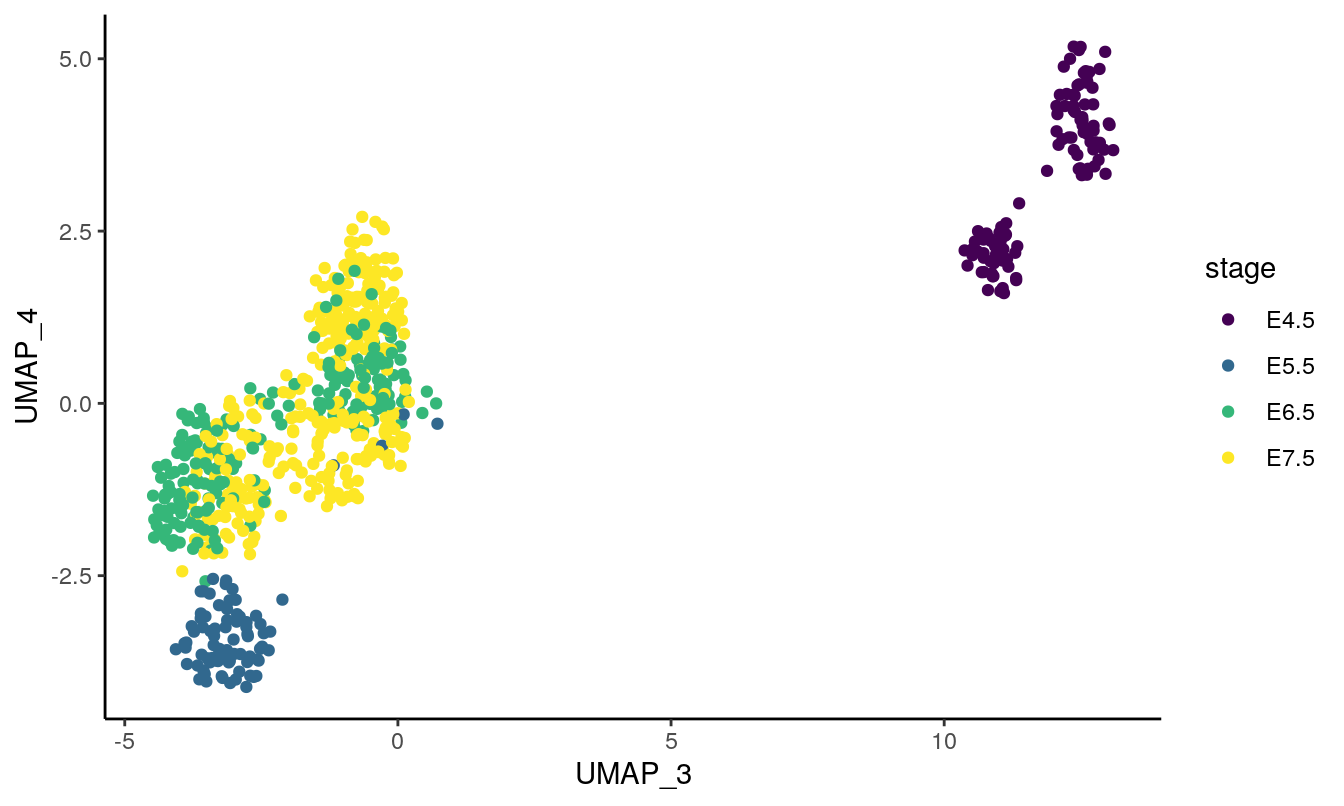
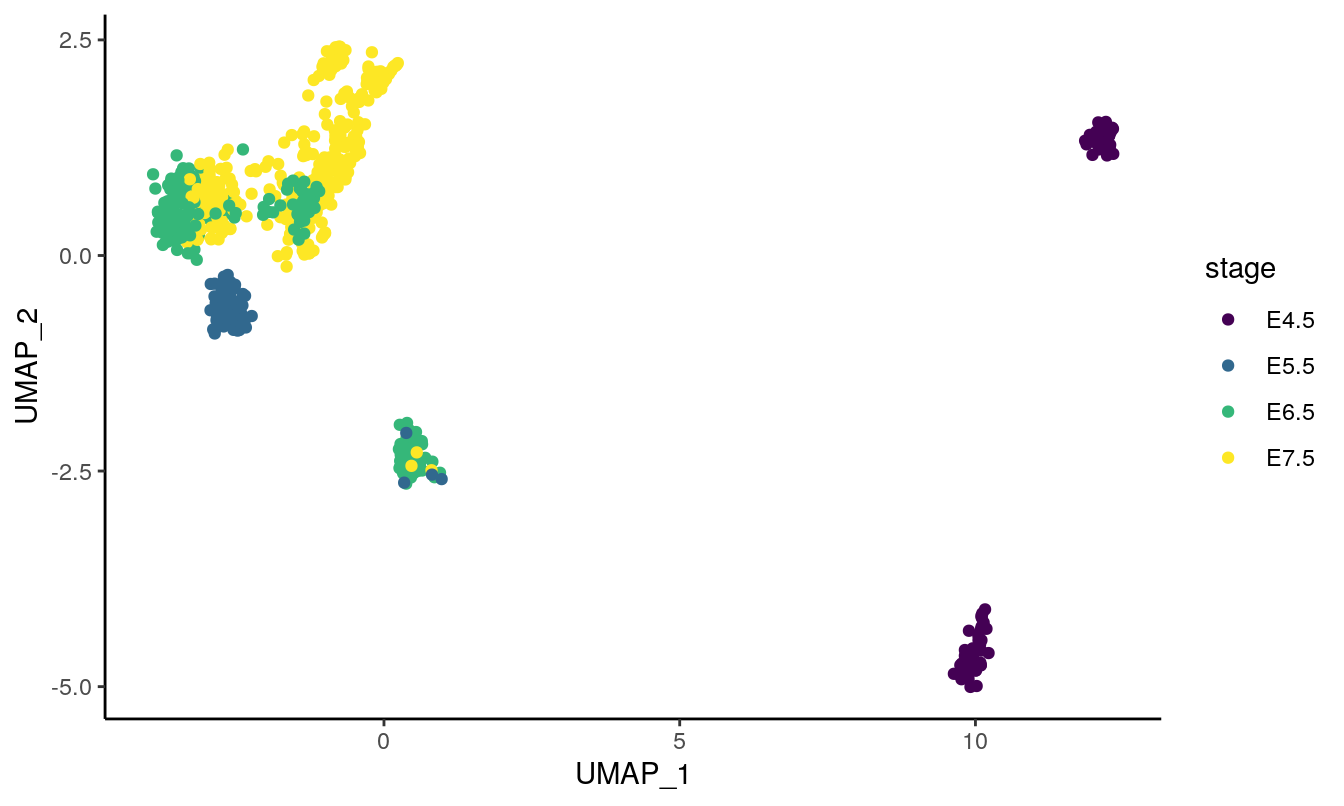
Deploying to gh-pages from  @ 269f9b45b6ae01ef91a478628a334f377bcd2bc9 🚀

diff --git a/articles/index.html b/articles/index.html
@@ -122,16 +122,31 @@
 <span class="fu"><a href="https://rdrr.io/r/base/library.html">library</a></span>(<span class="no">reshape2</span>)
 <span class="fu"><a href="https://rdrr.io/r/base/library.html">library</a></span>(<span class="no">data.table</span>)
 <span class="fu"><a href="https://rdrr.io/r/base/library.html">library</a></span>(<span class="no">MOFA2</span>)</pre></body></html></div>
+<div class="sourceCode" id="cb2"><html><body><pre class="r"><span class="co"># used run parameters from yaml</span>
+<span class="no">params</span>[-<span class="fu"><a href="https://rdrr.io/r/base/seq.html">seq_len</a></span>(<span class="fl">3</span>)]
+<span class="co">#&gt; $drop_lineages</span>
+<span class="co">#&gt; [1] "Visceral_endoderm" "ExE_ectoderm"     </span>
+<span class="co">#&gt; </span>
+<span class="co">#&gt; $keep_assays</span>
+<span class="co">#&gt; [1] "rna"          "met_genebody" "met_promoter" "met_cgi"      "met_p300"    </span>
+<span class="co">#&gt; [6] "met_CTCF"     "met_DHS"     </span>
+<span class="co">#&gt; </span>
+<span class="co">#&gt; $data_path</span>
+<span class="co">#&gt; [1] "https://cloudstor.aarnet.edu.au/plus/s/Xzf5vCgAEUVgbfQ/download?path=%2Foutput&amp;files=scnmtseq_gastrulation_mae_826-cells_orderedFeatures.rds"</span>
+<span class="co">#&gt; </span>
+<span class="co">#&gt; $umap_params</span>
+<span class="co">#&gt;     run.seed  n_neighbors n_components     min_dist </span>
+<span class="co">#&gt;         42.0         15.0          4.0          0.1</span></pre></body></html></div>
 <div id="data" class="section level1">
 <h1 class="hasAnchor">
 <a href="#data" class="anchor"></a>Data</h1>
 <p>Details of the hackathon data and preprocessing steps: <a href="https://github.com/BIRSBiointegration/Hackathon/tree/master/scNMT-seq" class="uri">https://github.com/BIRSBiointegration/Hackathon/tree/master/scNMT-seq</a></p>
 <p>Load the <code>MultiAssayExperiment</code> object:</p>
-<div class="sourceCode" id="cb2"><html><body><pre class="r"><span class="fu"><a href="https://rdrr.io/r/base/cat.html">cat</a></span>(<span class="fu"><a href="https://rdrr.io/r/base/sprintf.html">sprintf</a></span>(<span class="st">'loading data from %s ...\n'</span>, <span class="no">params</span>$<span class="no">data_path</span>))
+<div class="sourceCode" id="cb3"><html><body><pre class="r"><span class="fu"><a href="https://rdrr.io/r/base/cat.html">cat</a></span>(<span class="fu"><a href="https://rdrr.io/r/base/sprintf.html">sprintf</a></span>(<span class="st">'loading data from %s ...\n'</span>, <span class="no">params</span>$<span class="no">data_path</span>))
 <span class="co">#&gt; loading data from https://cloudstor.aarnet.edu.au/plus/s/Xzf5vCgAEUVgbfQ/download?path=%2Foutput&amp;files=scnmtseq_gastrulation_mae_826-cells_orderedFeatures.rds ...</span>
 <span class="no">gastru.mae</span> <span class="kw">&lt;-</span> <span class="fu"><a href="https://rdrr.io/r/base/readRDS.html">readRDS</a></span>(<span class="fu"><a href="https://rdrr.io/r/base/connections.html">url</a></span>(<span class="no">params</span>$<span class="no">data_path</span>))</pre></body></html></div>
 <p>An overview of the data object:</p>
-<div class="sourceCode" id="cb3"><html><body><pre class="r"><span class="no">gastru.mae</span>
+<div class="sourceCode" id="cb4"><html><body><pre class="r"><span class="no">gastru.mae</span>
 <span class="co">#&gt; A MultiAssayExperiment object of 13 listed</span>
 <span class="co">#&gt;  experiments with user-defined names and respective classes.</span>
 <span class="co">#&gt;  Containing an ExperimentList class object of length 13:</span>
@@ -159,14 +174,14 @@
 <div id="filter-extra-embryonic-cells" class="section level2">
 <h2 class="hasAnchor">
 <a href="#filter-extra-embryonic-cells" class="anchor"></a>filter extra-embryonic cells</h2>
-<div class="sourceCode" id="cb4"><html><body><pre class="r"><span class="fu"><a href="https://rdrr.io/r/base/cat.html">cat</a></span>(<span class="fu"><a href="https://rdrr.io/r/base/sprintf.html">sprintf</a></span>(<span class="st">'Dropping cells from lineage(s) %s:\n'</span>, <span class="fu"><a href="https://rdrr.io/r/base/paste.html">paste</a></span>(<span class="fu"><a href="https://rdrr.io/r/base/sQuote.html">sQuote</a></span>(<span class="no">params</span>$<span class="no">drop_lineages</span>), <span class="kw">collapse</span> <span class="kw">=</span> <span class="st">', '</span>)))
+<div class="sourceCode" id="cb5"><html><body><pre class="r"><span class="fu"><a href="https://rdrr.io/r/base/cat.html">cat</a></span>(<span class="fu"><a href="https://rdrr.io/r/base/sprintf.html">sprintf</a></span>(<span class="st">'Dropping cells from lineage(s) %s:\n'</span>, <span class="fu"><a href="https://rdrr.io/r/base/paste.html">paste</a></span>(<span class="fu"><a href="https://rdrr.io/r/base/sQuote.html">sQuote</a></span>(<span class="no">params</span>$<span class="no">drop_lineages</span>), <span class="kw">collapse</span> <span class="kw">=</span> <span class="st">', '</span>)))
 <span class="co">#&gt; Dropping cells from lineage(s) 'Visceral_endoderm', 'ExE_ectoderm':</span>
 <span class="fu"><a href="https://rdrr.io/r/base/cat.html">cat</a></span>(<span class="fu"><a href="https://rdrr.io/r/base/sprintf.html">sprintf</a></span>(<span class="st">'Retaining assays: %s: \n'</span>, <span class="fu"><a href="https://rdrr.io/r/base/paste.html">paste</a></span>(<span class="fu"><a href="https://rdrr.io/r/base/sQuote.html">sQuote</a></span>(<span class="no">params</span>$<span class="no">keep_assays</span>), <span class="kw">collapse</span> <span class="kw">=</span> <span class="st">', '</span>)))
 <span class="co">#&gt; Retaining assays: 'rna', 'met_genebody', 'met_promoter', 'met_cgi', 'met_p300', 'met_CTCF', 'met_DHS':</span>
 <span class="no">gastru.mae</span> <span class="kw">&lt;-</span> <span class="no">gastru.mae</span>[, !(<span class="no">gastru.mae</span>$<span class="no">lineage10x_2</span> <span class="kw">%in%</span> <span class="no">params</span>$<span class="no">drop_lineages</span>), <span class="no">params</span>$<span class="no">keep_assays</span>]
 <span class="co">#&gt; harmonizing input:</span>
 <span class="co">#&gt;   removing 4494 sampleMap rows not in names(experiments)</span></pre></body></html></div>
-<div class="sourceCode" id="cb5"><html><body><pre class="r"><span class="no">gastru.mae</span>
+<div class="sourceCode" id="cb6"><html><body><pre class="r"><span class="no">gastru.mae</span>
 <span class="co">#&gt; A MultiAssayExperiment object of 7 listed</span>
 <span class="co">#&gt;  experiments with user-defined names and respective classes.</span>
 <span class="co">#&gt;  Containing an ExperimentList class object of length 7:</span>
@@ -186,7 +201,7 @@
 <span class="co">#&gt;  assays() - convert ExperimentList to a SimpleList of matrices</span>
 <span class="co">#&gt;  exportClass() - save all data to files</span></pre></body></html></div>
 <p>Breakdown of the cells in each stage:</p>
-<div class="sourceCode" id="cb6"><html><body><pre class="r"><span class="fu"><a href="https://rdrr.io/r/base/table.html">table</a></span>(<span class="no">gastru.mae</span>$<span class="no">stage</span>) <span class="kw">%&gt;%</span> <span class="fu"><a href="https://rdrr.io/r/base/as.data.frame.html">as.data.frame</a></span>() <span class="kw">%&gt;%</span> <span class="fu"><a href="https://rdrr.io/pkg/magrittr/man/aliases.html">set_colnames</a></span>(<span class="fu"><a href="https://rdrr.io/r/base/c.html">c</a></span>(<span class="st">'stage'</span>, <span class="st">'# of cells'</span>)) <span class="kw">%&gt;%</span> <span class="fu"><a href="https://rdrr.io/pkg/knitr/man/kable.html">kable</a></span>()</pre></body></html></div>
+<div class="sourceCode" id="cb7"><html><body><pre class="r"><span class="fu"><a href="https://rdrr.io/r/base/table.html">table</a></span>(<span class="no">gastru.mae</span>$<span class="no">stage</span>) <span class="kw">%&gt;%</span> <span class="fu"><a href="https://rdrr.io/r/base/as.data.frame.html">as.data.frame</a></span>() <span class="kw">%&gt;%</span> <span class="fu"><a href="https://rdrr.io/pkg/magrittr/man/aliases.html">set_colnames</a></span>(<span class="fu"><a href="https://rdrr.io/r/base/c.html">c</a></span>(<span class="st">'stage'</span>, <span class="st">'# of cells'</span>)) <span class="kw">%&gt;%</span> <span class="fu"><a href="https://rdrr.io/pkg/knitr/man/kable.html">kable</a></span>()</pre></body></html></div>
 <table class="table">
 <thead><tr class="header">
 <th align="left">stage</th>
@@ -211,14 +226,14 @@
 </tr>
 </tbody>
 </table>
-<div class="sourceCode" id="cb7"><html><body><pre class="r"><span class="co">## create a data.frame from cell metadata</span>
+<div class="sourceCode" id="cb8"><html><body><pre class="r"><span class="co">## create a data.frame from cell metadata</span>
 <span class="no">coldata</span> <span class="kw">&lt;-</span> <span class="fu"><a href="https://rdrr.io/r/base/data.frame.html">data.frame</a></span>(<span class="fu">colData</span>(<span class="no">gastru.mae</span>))</pre></body></html></div>
 </div>
 <div id="feature-detection" class="section level2">
 <h2 class="hasAnchor">
 <a href="#feature-detection" class="anchor"></a>Feature detection</h2>
 <p>Create density plots of the feature detection rate across all cells for all modalities:</p>
-<div class="sourceCode" id="cb8"><html><body><pre class="r"><span class="co"># get the methylation assays</span>
+<div class="sourceCode" id="cb9"><html><body><pre class="r"><span class="co"># get the methylation assays</span>
 <span class="no">met_assays</span> <span class="kw">&lt;-</span> <span class="fu"><a href="https://rdrr.io/r/base/grep.html">grep</a></span>(<span class="fu"><a href="https://rdrr.io/r/base/names.html">names</a></span>(<span class="no">gastru.mae</span>), <span class="kw">pattern</span> <span class="kw">=</span> <span class="st">'^met'</span>, <span class="kw">value</span> <span class="kw">=</span> <span class="fl">TRUE</span>)
 <span class="co"># add dimensions to labels for ggplot</span>
 <span class="no">dims</span> <span class="kw">&lt;-</span> <span class="fu"><a href="https://rdrr.io/r/base/lapply.html">lapply</a></span>(<span class="fu"><a href="https://rdrr.io/pkg/MultiAssayExperiment/man/MultiAssayExperiment-methods.html">experiments</a></span>(<span class="no">gastru.mae</span>[,,<span class="no">met_assays</span>]), <span class="no">dim</span>)
@@ -241,7 +256,7 @@
 <span class="no">coverages</span> <span class="kw">&lt;-</span> <span class="fu"><a href="https://github.com/ajabadi/BIRSBIO2020.scNMTseq.PLS/reference/utils.html">rbindListWithNames</a></span>(<span class="no">coverages</span>)
 <span class="no">coverages</span>$<span class="no">dataset</span> <span class="kw">&lt;-</span> <span class="fu"><a href="https://rdrr.io/r/base/factor.html">factor</a></span>(<span class="no">coverages</span>$<span class="no">dataset</span>, <span class="kw">levels</span> <span class="kw">=</span> <span class="fu"><a href="https://Rdatatable.gitlab.io/data.table/reference/duplicated.html">unique</a></span>(<span class="no">coverages</span>$<span class="no">dataset</span>), <span class="kw">ordered</span> <span class="kw">=</span> <span class="fl">TRUE</span>)</pre></body></html></div>
 <p>Genomic contexts vary in level of feature detection rates:</p>
-<div class="sourceCode" id="cb9"><html><body><pre class="r"><span class="no">cov_plot</span> <span class="kw">&lt;-</span> <span class="fu"><a href="https://ggplot2.tidyverse.org/reference/ggplot.html">ggplot</a></span>(<span class="no">coverages</span>, <span class="fu"><a href="https://ggplot2.tidyverse.org/reference/aes.html">aes</a></span>(<span class="kw">x</span> <span class="kw">=</span> <span class="no">pct_NAs</span>)) + <span class="fu"><a href="https://ggplot2.tidyverse.org/reference/geom_density.html">geom_density</a></span>(<span class="kw">fill</span> <span class="kw">=</span> <span class="st">'lightblue'</span>, <span class="kw">show.legend</span> <span class="kw">=</span> <span class="fl">FALSE</span>) +
+<div class="sourceCode" id="cb10"><html><body><pre class="r"><span class="no">cov_plot</span> <span class="kw">&lt;-</span> <span class="fu"><a href="https://ggplot2.tidyverse.org/reference/ggplot.html">ggplot</a></span>(<span class="no">coverages</span>, <span class="fu"><a href="https://ggplot2.tidyverse.org/reference/aes.html">aes</a></span>(<span class="kw">x</span> <span class="kw">=</span> <span class="no">pct_NAs</span>)) + <span class="fu"><a href="https://ggplot2.tidyverse.org/reference/geom_density.html">geom_density</a></span>(<span class="kw">fill</span> <span class="kw">=</span> <span class="st">'lightblue'</span>, <span class="kw">show.legend</span> <span class="kw">=</span> <span class="fl">FALSE</span>) +
   <span class="fu"><a href="https://ggplot2.tidyverse.org/reference/geom_abline.html">geom_vline</a></span>(<span class="fu"><a href="https://ggplot2.tidyverse.org/reference/aes.html">aes</a></span>(<span class="kw">xintercept</span><span class="kw">=</span><span class="fu"><a href="https://rdrr.io/r/base/mean.html">mean</a></span>(<span class="no">pct_NAs</span>)),
              <span class="kw">color</span><span class="kw">=</span><span class="st">"blue"</span>, <span class="kw">linetype</span><span class="kw">=</span><span class="st">"dashed"</span>, <span class="kw">size</span><span class="kw">=</span><span class="fl">0.5</span>) +
   <span class="fu"><a href="https://ggplot2.tidyverse.org/reference/labs.html">labs</a></span>(<span class="kw">x</span> <span class="kw">=</span> <span class="st">'% of cells detecting the feature'</span>) + <span class="fu"><a href="https://ggplot2.tidyverse.org/reference/facet_wrap.html">facet_wrap</a></span>(<span class="no">.</span>~<span class="no">dataset</span>, <span class="kw">nrow</span> <span class="kw">=</span> <span class="fl">2</span>) +
@@ -249,7 +264,7 @@
 
 <span class="no">cov_plot</span></pre></body></html></div>
 <div class="figure">
-<img src="index_files/figure-html/unnamed-chunk-12-1.png" alt="density plots for methylation data show that shorter genomic regions tend to have less feture coverage. Dashed blue line indicates the average across all modalities." width="768"><p class="caption">
+<img src="index_files/figure-html/unnamed-chunk-13-1.png" alt="density plots for methylation data show that shorter genomic regions tend to have less feture coverage. Dashed blue line indicates the average across all modalities." width="768"><p class="caption">
 density plots for methylation data show that shorter genomic regions tend to have less feture coverage. Dashed blue line indicates the average across all modalities.
 </p>
 </div>
@@ -262,7 +277,7 @@ density plots for methylation data show that shorter genomic regions tend to hav
 <h2 class="hasAnchor">
 <a href="#umap" class="anchor"></a>UMAP</h2>
 <p>Here we use <code>uwot</code> package for Uniform Manifold Approximation Projection. The original study used the <code>umap</code> package with <code>method = 'umap-learn'</code> parameter which requires the ‘umap-learn’ python library and can add complexity to set up on a VM.</p>
-<div class="sourceCode" id="cb10"><html><body><pre class="r"><span class="fu"><a href="https://rdrr.io/r/base/Random.html">RNGversion</a></span>(<span class="st">'4.0.1'</span>)
+<div class="sourceCode" id="cb11"><html><body><pre class="r"><span class="fu"><a href="https://rdrr.io/r/base/Random.html">RNGversion</a></span>(<span class="st">'4.0.1'</span>)
 <span class="fu"><a href="https://rdrr.io/r/base/Random.html">set.seed</a></span>(<span class="no">params</span>$<span class="no">umap_params</span>[<span class="st">'run.seed'</span>])
 <span class="co">## all params use defaults except for 'n_components' and 'min_dist'</span>
 <span class="fu"><a href="https://rdrr.io/r/base/cat.html">cat</a></span>(<span class="fu"><a href="https://rdrr.io/r/base/sprintf.html">sprintf</a></span>(<span class="st">'running umap on RNA data with parameters: %s ...\n '</span>,
@@ -285,23 +300,23 @@ density plots for methylation data show that shorter genomic regions tend to hav
   <span class="kw">set_op_mix_ratio</span> <span class="kw">=</span> <span class="fl">1</span>,
   <span class="kw">local_connectivity</span> <span class="kw">=</span> <span class="fl">1</span>)</pre></body></html></div>
 <p>Create a data.frame of embeddings:</p>
-<div class="sourceCode" id="cb11"><html><body><pre class="r"><span class="no">df</span> <span class="kw">&lt;-</span> <span class="fu"><a href="https://rdrr.io/r/base/data.frame.html">data.frame</a></span>(<span class="no">umap_rna_unsup</span>)
+<div class="sourceCode" id="cb12"><html><body><pre class="r"><span class="no">df</span> <span class="kw">&lt;-</span> <span class="fu"><a href="https://rdrr.io/r/base/data.frame.html">data.frame</a></span>(<span class="no">umap_rna_unsup</span>)
 <span class="fu"><a href="https://rdrr.io/r/base/colnames.html">colnames</a></span>(<span class="no">df</span>) <span class="kw">&lt;-</span> <span class="fu"><a href="https://rdrr.io/r/base/paste.html">paste0</a></span>(<span class="st">'UMAP_'</span>, <span class="fu"><a href="https://rdrr.io/r/base/seq.html">seq_along</a></span>(<span class="no">df</span>))
 <span class="no">df</span> <span class="kw">&lt;-</span> <span class="fu"><a href="https://rdrr.io/r/base/cbind.html">cbind</a></span>(<span class="no">df</span>, <span class="no">coldata</span>)</pre></body></html></div>
 <p>Create colour palettes for stages and lineages:</p>
-<div class="sourceCode" id="cb12"><html><body><pre class="r"><span class="co"># col_pallete &lt;- viridisLite::viridis(n = 4)</span>
+<div class="sourceCode" id="cb13"><html><body><pre class="r"><span class="co"># col_pallete &lt;- viridisLite::viridis(n = 4)</span>
 <span class="no">col_pallete</span> <span class="kw">&lt;-</span> <span class="fu"><a href="https://rdrr.io/r/base/c.html">c</a></span>(<span class="st">"#440154FF"</span>, <span class="st">"#31688EFF"</span>, <span class="st">"#35B779FF"</span>, <span class="st">"#FDE725FF"</span>)
 <span class="fu"><a href="https://rdrr.io/r/base/names.html">names</a></span>(<span class="no">col_pallete</span>) <span class="kw">&lt;-</span> <span class="fu"><a href="https://rdrr.io/r/base/c.html">c</a></span>(<span class="st">"E4.5"</span>, <span class="st">"E5.5"</span>, <span class="st">"E6.5"</span>, <span class="st">"E7.5"</span>)</pre></body></html></div>
-<div class="sourceCode" id="cb13"><html><body><pre class="r"><span class="co">## helper function to create both plots coloured by stage</span>
+<div class="sourceCode" id="cb14"><html><body><pre class="r"><span class="co">## helper function to create both plots coloured by stage</span>
 <span class="no">plot_umap_by_stage</span> <span class="kw">&lt;-</span> <span class="kw">function</span>(<span class="no">df</span>, <span class="no">dims</span> <span class="kw">=</span> <span class="fu"><a href="https://rdrr.io/r/base/c.html">c</a></span>(<span class="fl">1</span>,<span class="fl">2</span>)) {
   <span class="no">axes</span> <span class="kw">&lt;-</span> <span class="fu"><a href="https://rdrr.io/r/base/paste.html">paste0</a></span>(<span class="st">'UMAP_'</span>, <span class="no">dims</span>)
   <span class="fu"><a href="https://ggplot2.tidyverse.org/reference/ggplot.html">ggplot</a></span>(<span class="no">df</span>, <span class="fu"><a href="https://ggplot2.tidyverse.org/reference/aes_.html">aes_string</a></span>(<span class="no">axes</span>[<span class="fl">1</span>], <span class="no">axes</span>[<span class="fl">2</span>])) + <span class="fu"><a href="https://ggplot2.tidyverse.org/reference/geom_point.html">geom_point</a></span>(<span class="fu"><a href="https://ggplot2.tidyverse.org/reference/aes.html">aes</a></span>(<span class="kw">col</span><span class="kw">=</span><span class="no">stage</span>)) +
     <span class="fu"><a href="https://ggplot2.tidyverse.org/reference/ggtheme.html">theme_classic</a></span>()+ <span class="fu"><a href="https://ggplot2.tidyverse.org/reference/scale_manual.html">scale_color_manual</a></span>(<span class="kw">values</span> <span class="kw">=</span> <span class="no">col_pallete</span>)
 }</pre></body></html></div>
 <p>First two components:</p>
-<div class="sourceCode" id="cb14"><html><body><pre class="r"><span class="fu">plot_umap_by_stage</span>(<span class="kw">df</span> <span class="kw">=</span> <span class="no">df</span>, <span class="kw">dims</span> <span class="kw">=</span> <span class="fu"><a href="https://rdrr.io/r/base/c.html">c</a></span>(<span class="fl">1</span>,<span class="fl">2</span>))</pre></body></html></div>
+<div class="sourceCode" id="cb15"><html><body><pre class="r"><span class="fu">plot_umap_by_stage</span>(<span class="kw">df</span> <span class="kw">=</span> <span class="no">df</span>, <span class="kw">dims</span> <span class="kw">=</span> <span class="fu"><a href="https://rdrr.io/r/base/c.html">c</a></span>(<span class="fl">1</span>,<span class="fl">2</span>))</pre></body></html></div>
 <div class="figure">
-<img src="index_files/figure-html/unnamed-chunk-19-1.png" alt="UMAP plot shows distinct cell populations corresponding to early-stage, mid-stage, and late-stage cells as well as the within-stage variation for mainly E4.5 and E6.5 which could correspond to different lineages." width="672"><p class="caption">
+<img src="index_files/figure-html/unnamed-chunk-20-1.png" alt="UMAP plot shows distinct cell populations corresponding to early-stage, mid-stage, and late-stage cells as well as the within-stage variation for mainly E4.5 and E6.5 which could correspond to different lineages." width="672"><p class="caption">
 UMAP plot shows distinct cell populations corresponding to early-stage, mid-stage, and late-stage cells as well as the within-stage variation for mainly E4.5 and E6.5 which could correspond to different lineages.
 </p>
 </div>
@@ -314,13 +329,13 @@ UMAP plot shows distinct cell populations corresponding to early-stage, mid-stag
 <h2 class="hasAnchor">
 <a href="#gene-id-to-gene-symbol-conversion-data-frame" class="anchor"></a>gene id to gene symbol conversion data.frame</h2>
 <p>Get all the gene names from all modalities:</p>
-<div class="sourceCode" id="cb15"><html><body><pre class="r"><span class="no">all_features</span> <span class="kw">&lt;-</span> <span class="fu"><a href="https://rdrr.io/r/base/lapply.html">sapply</a></span>(<span class="fu"><a href="https://rdrr.io/pkg/MultiAssayExperiment/man/MultiAssayExperiment-methods.html">experiments</a></span>(<span class="no">gastru.mae</span>), <span class="no">rownames</span>) <span class="kw">%&gt;%</span> <span class="fu"><a href="https://rdrr.io/r/base/unlist.html">unlist</a></span>()
+<div class="sourceCode" id="cb16"><html><body><pre class="r"><span class="no">all_features</span> <span class="kw">&lt;-</span> <span class="fu"><a href="https://rdrr.io/r/base/lapply.html">sapply</a></span>(<span class="fu"><a href="https://rdrr.io/pkg/MultiAssayExperiment/man/MultiAssayExperiment-methods.html">experiments</a></span>(<span class="no">gastru.mae</span>), <span class="no">rownames</span>) <span class="kw">%&gt;%</span> <span class="fu"><a href="https://rdrr.io/r/base/unlist.html">unlist</a></span>()
 <span class="no">all_genes</span> <span class="kw">&lt;-</span> <span class="fu"><a href="https://rdrr.io/r/base/grep.html">grep</a></span>(<span class="kw">pattern</span> <span class="kw">=</span> <span class="st">'^ENSMUSG'</span>, <span class="kw">x</span> <span class="kw">=</span> <span class="no">all_features</span>, <span class="kw">value</span> <span class="kw">=</span> <span class="fl">TRUE</span>)
 <span class="no">all_genes</span> <span class="kw">&lt;-</span> <span class="fu"><a href="https://Rdatatable.gitlab.io/data.table/reference/duplicated.html">unique</a></span>(<span class="no">all_genes</span>)
 <span class="fu"><a href="https://rdrr.io/r/base/length.html">length</a></span>(<span class="no">all_genes</span>)
 <span class="co">#&gt; [1] 18359</span></pre></body></html></div>
 <p>Get the Ensembl gene name for these gene ids:</p>
-<div class="sourceCode" id="cb16"><html><body><pre class="r"><span class="no">ensembl</span> <span class="kw">&lt;-</span> <span class="fu"><a href="https://rdrr.io/pkg/biomaRt/man/useMart.html">useMart</a></span>(<span class="st">"ensembl"</span>, <span class="kw">dataset</span><span class="kw">=</span><span class="st">"mmusculus_gene_ensembl"</span>)
+<div class="sourceCode" id="cb17"><html><body><pre class="r"><span class="no">ensembl</span> <span class="kw">&lt;-</span> <span class="fu"><a href="https://rdrr.io/pkg/biomaRt/man/useMart.html">useMart</a></span>(<span class="st">"ensembl"</span>, <span class="kw">dataset</span><span class="kw">=</span><span class="st">"mmusculus_gene_ensembl"</span>)
 <span class="no">mouse_gene_ids</span>  <span class="kw">&lt;-</span> <span class="no">all_genes</span>
 
 <span class="no">symbols</span> <span class="kw">&lt;-</span> <span class="fu"><a href="https://rdrr.io/pkg/biomaRt/man/getBM.html">getBM</a></span>(<span class="kw">attributes</span><span class="kw">=</span><span class="fu"><a href="https://rdrr.io/r/base/c.html">c</a></span>(<span class="st">'ensembl_gene_id'</span>,
@@ -333,7 +348,7 @@ UMAP plot shows distinct cell populations corresponding to early-stage, mid-stag
 <div id="pls-integartion-of-all-modalities-with-feature-selection" class="section level2">
 <h2 class="hasAnchor">
 <a href="#pls-integartion-of-all-modalities-with-feature-selection" class="anchor"></a>PLS integartion of all modalities with feature selection</h2>
-<div class="sourceCode" id="cb17"><html><body><pre class="r"><span class="co"># data dimensions</span>
+<div class="sourceCode" id="cb18"><html><body><pre class="r"><span class="co"># data dimensions</span>
 <span class="fu"><a href="https://rdrr.io/r/base/lapply.html">lapply</a></span>(<span class="fu"><a href="https://rdrr.io/pkg/MultiAssayExperiment/man/MultiAssayExperiment-methods.html">experiments</a></span>(<span class="no">gastru.mae</span>), <span class="no">dim</span>)
 <span class="co">#&gt; $rna</span>
 <span class="co">#&gt; [1] 18345   749</span>
@@ -355,11 +370,11 @@ UMAP plot shows distinct cell populations corresponding to early-stage, mid-stag
 <span class="co">#&gt; </span>
 <span class="co">#&gt; $met_DHS</span>
 <span class="co">#&gt; [1]  66 749</span></pre></body></html></div>
-<div class="sourceCode" id="cb18"><html><body><pre class="r"><span class="no">mmspls</span> <span class="kw">&lt;-</span> <span class="fu"><a href="https://github.com/ajabadi/BIRSBIO2020.scNMTseq.PLS/reference/multimodal_analysis_wrapper.html">multimodal_analysis_wrapper</a></span>(<span class="kw">mae</span> <span class="kw">=</span> <span class="no">gastru.mae</span>, <span class="kw">study_assays</span> <span class="kw">=</span> <span class="kw">NULL</span>, <span class="kw">ncomp</span> <span class="kw">=</span> <span class="fl">2</span>, <span class="kw">scale</span> <span class="kw">=</span> <span class="fl">FALSE</span>, <span class="kw">design</span> <span class="kw">=</span> <span class="st">'null'</span>, <span class="kw">lineages</span> <span class="kw">=</span> <span class="kw">NULL</span>, <span class="kw">stages</span> <span class="kw">=</span> <span class="kw">NULL</span>, <span class="kw">DA</span> <span class="kw">=</span> <span class="kw">NULL</span>, <span class="kw">keepX</span> <span class="kw">=</span> <span class="kw">NULL</span>, <span class="kw">save</span> <span class="kw">=</span> <span class="fl">FALSE</span>)
+<div class="sourceCode" id="cb19"><html><body><pre class="r"><span class="no">mmspls</span> <span class="kw">&lt;-</span> <span class="fu"><a href="https://github.com/ajabadi/BIRSBIO2020.scNMTseq.PLS/reference/multimodal_analysis_wrapper.html">multimodal_analysis_wrapper</a></span>(<span class="kw">mae</span> <span class="kw">=</span> <span class="no">gastru.mae</span>, <span class="kw">study_assays</span> <span class="kw">=</span> <span class="kw">NULL</span>, <span class="kw">ncomp</span> <span class="kw">=</span> <span class="fl">2</span>, <span class="kw">scale</span> <span class="kw">=</span> <span class="fl">FALSE</span>, <span class="kw">design</span> <span class="kw">=</span> <span class="st">'null'</span>, <span class="kw">lineages</span> <span class="kw">=</span> <span class="kw">NULL</span>, <span class="kw">stages</span> <span class="kw">=</span> <span class="kw">NULL</span>, <span class="kw">DA</span> <span class="kw">=</span> <span class="kw">NULL</span>, <span class="kw">keepX</span> <span class="kw">=</span> <span class="kw">NULL</span>, <span class="kw">save</span> <span class="kw">=</span> <span class="fl">FALSE</span>)
 <span class="co">#&gt; Making unique feature names by adding assay name to feature name for: met_genebody</span>
 <span class="co">#&gt; Making unique feature names by adding assay name to feature name for: met_promoter</span>
 <span class="co">#&gt; Warning in cor(A[[k]], variates.A[[k]]): the standard deviation is zero</span></pre></body></html></div>
-<div class="sourceCode" id="cb19"><html><body><pre class="r"><span class="no">plotIndiv_wrapper</span> <span class="kw">&lt;-</span> <span class="kw">function</span>(<span class="no">pls_obj</span>, <span class="no">coldata</span>, <span class="no">col_cell</span> <span class="kw">=</span> <span class="st">'stage'</span>, <span class="no">legend.title</span> <span class="kw">=</span> <span class="st">'Stage'</span>, <span class="no">comp</span> <span class="kw">=</span> <span class="fu"><a href="https://rdrr.io/r/base/c.html">c</a></span>(<span class="fl">1</span>,<span class="fl">2</span>), <span class="no">...</span>) {
+<div class="sourceCode" id="cb20"><html><body><pre class="r"><span class="no">plotIndiv_wrapper</span> <span class="kw">&lt;-</span> <span class="kw">function</span>(<span class="no">pls_obj</span>, <span class="no">coldata</span>, <span class="no">col_cell</span> <span class="kw">=</span> <span class="st">'stage'</span>, <span class="no">legend.title</span> <span class="kw">=</span> <span class="st">'Stage'</span>, <span class="no">comp</span> <span class="kw">=</span> <span class="fu"><a href="https://rdrr.io/r/base/c.html">c</a></span>(<span class="fl">1</span>,<span class="fl">2</span>), <span class="no">...</span>) {
   <span class="co">## order coldata cells based on matching cells in pls modalities</span>
   <span class="no">coldata</span> <span class="kw">&lt;-</span> <span class="no">coldata</span>[<span class="fu"><a href="https://rdrr.io/r/base/colnames.html">rownames</a></span>(<span class="no">pls_obj</span>$<span class="no">X</span><span class="kw">[[</span><span class="fl">1</span>]]),]
   <span class="no">cell_class</span> <span class="kw">&lt;-</span> <span class="no">coldata</span>[,<span class="no">col_cell</span>]  <span class="co">## col factor for cells</span>
@@ -373,15 +388,15 @@ UMAP plot shows distinct cell populations corresponding to early-stage, mid-stag
 <h2 class="hasAnchor">
 <a href="#score-plots" class="anchor"></a>score plots</h2>
 <p>Colored by stage:</p>
-<div class="sourceCode" id="cb20"><html><body><pre class="r"><span class="fu">plotIndiv_wrapper</span>(<span class="kw">pls_obj</span> <span class="kw">=</span> <span class="no">mmspls</span>, <span class="kw">coldata</span> <span class="kw">=</span> <span class="no">coldata</span>, <span class="kw">col_cell</span> <span class="kw">=</span> <span class="st">'stage'</span>, <span class="kw">legend.title</span> <span class="kw">=</span> <span class="st">'Stage'</span>, <span class="kw">comp</span> <span class="kw">=</span> <span class="fu"><a href="https://rdrr.io/r/base/c.html">c</a></span>(<span class="fl">1</span>,<span class="fl">2</span>), <span class="kw">subtitle</span> <span class="kw">=</span> <span class="fu"><a href="https://rdrr.io/r/base/names.html">names</a></span>(<span class="no">mmspls</span>$<span class="no">X</span>), <span class="kw">col.per.group</span> <span class="kw">=</span> <span class="no">col_pallete</span>)</pre></body></html></div>
-<p><img src="index_files/figure-html/unnamed-chunk-27-1.png" width="768"></p>
+<div class="sourceCode" id="cb21"><html><body><pre class="r"><span class="fu">plotIndiv_wrapper</span>(<span class="kw">pls_obj</span> <span class="kw">=</span> <span class="no">mmspls</span>, <span class="kw">coldata</span> <span class="kw">=</span> <span class="no">coldata</span>, <span class="kw">col_cell</span> <span class="kw">=</span> <span class="st">'stage'</span>, <span class="kw">legend.title</span> <span class="kw">=</span> <span class="st">'Stage'</span>, <span class="kw">comp</span> <span class="kw">=</span> <span class="fu"><a href="https://rdrr.io/r/base/c.html">c</a></span>(<span class="fl">1</span>,<span class="fl">2</span>), <span class="kw">subtitle</span> <span class="kw">=</span> <span class="fu"><a href="https://rdrr.io/r/base/names.html">names</a></span>(<span class="no">mmspls</span>$<span class="no">X</span>), <span class="kw">col.per.group</span> <span class="kw">=</span> <span class="no">col_pallete</span>)</pre></body></html></div>
+<p><img src="index_files/figure-html/unnamed-chunk-28-1.png" width="768"></p>
 </div>
 </div>
 <div id="concordancy-with-rna" class="section level1">
 <h1 class="hasAnchor">
 <a href="#concordancy-with-rna" class="anchor"></a>Concordancy with RNA</h1>
 <p>Here we calculate the average correlation between components from gene expression and different methylome modalities:</p>
-<div class="sourceCode" id="cb21"><html><body><pre class="r"><span class="no">concordancy</span> <span class="kw">&lt;-</span> <span class="kw">function</span>(<span class="no">pls_obj</span>, <span class="no">comp</span> <span class="kw">=</span> <span class="fl">1</span>) {
+<div class="sourceCode" id="cb22"><html><body><pre class="r"><span class="no">concordancy</span> <span class="kw">&lt;-</span> <span class="kw">function</span>(<span class="no">pls_obj</span>, <span class="no">comp</span> <span class="kw">=</span> <span class="fl">1</span>) {
 
   <span class="no">cor_with_y</span> <span class="kw">&lt;-</span> <span class="fu"><a href="https://rdrr.io/r/base/lapply.html">sapply</a></span>(<span class="no">pls_obj</span>$<span class="no">variates</span>[-<span class="fl">1</span>], <span class="kw">function</span>(<span class="no">x_variates</span>) {
     <span class="no">y_variates</span> <span class="kw">&lt;-</span> <span class="no">pls_obj</span>$<span class="no">variates</span><span class="kw">[[</span><span class="fl">1</span>]]
@@ -398,13 +413,13 @@ UMAP plot shows distinct cell populations corresponding to early-stage, mid-stag
   <span class="fu"><a href="https://ggplot2.tidyverse.org/reference/ggplot.html">ggplot</a></span>(<span class="no">cor_with_y</span>, <span class="fu"><a href="https://ggplot2.tidyverse.org/reference/aes.html">aes</a></span>(<span class="kw">x</span> <span class="kw">=</span> <span class="no">modality</span>, <span class="kw">y</span> <span class="kw">=</span> <span class="no">concordancy</span>)) + <span class="fu"><a href="https://ggplot2.tidyverse.org/reference/geom_bar.html">geom_col</a></span>(<span class="kw">fill</span> <span class="kw">=</span> <span class="st">"#35B779FF"</span>) + <span class="fu"><a href="https://ggplot2.tidyverse.org/reference/ggtheme.html">theme_classic</a></span>() +
     <span class="fu"><a href="https://ggplot2.tidyverse.org/reference/labs.html">labs</a></span>(<span class="kw">y</span> <span class="kw">=</span> <span class="fu"><a href="https://rdrr.io/r/base/sprintf.html">sprintf</a></span>(<span class="st">'Correlation with RNA (comp %s) '</span>, <span class="fu"><a href="https://rdrr.io/r/base/paste.html">paste</a></span>(<span class="no">comp</span>, <span class="kw">collapse</span> <span class="kw">=</span> <span class="st">', '</span>)), <span class="kw">x</span> <span class="kw">=</span> <span class="st">''</span>) + <span class="fu"><a href="https://ggplot2.tidyverse.org/reference/lims.html">ylim</a></span>(<span class="fu"><a href="https://rdrr.io/r/base/c.html">c</a></span>(<span class="fl">0</span>, <span class="fl">1</span>)) + <span class="fu"><a href="https://ggplot2.tidyverse.org/reference/theme.html">theme</a></span>(<span class="kw">axis.text.x</span> <span class="kw">=</span> <span class="fu"><a href="https://ggplot2.tidyverse.org/reference/element.html">element_text</a></span>(<span class="kw">angle</span> <span class="kw">=</span> <span class="fl">45</span>, <span class="kw">vjust</span> <span class="kw">=</span> <span class="fl">0.8</span>, <span class="kw">hjust</span><span class="kw">=</span><span class="fl">1</span>))
 }</pre></body></html></div>
-<div class="sourceCode" id="cb22"><html><body><pre class="r"><span class="fu">concordancy</span>(<span class="kw">pls_obj</span> <span class="kw">=</span> <span class="no">mmspls</span>, <span class="kw">comp</span> <span class="kw">=</span> <span class="fu"><a href="https://rdrr.io/r/base/c.html">c</a></span>(<span class="fl">1</span>, <span class="fl">2</span>))
+<div class="sourceCode" id="cb23"><html><body><pre class="r"><span class="fu">concordancy</span>(<span class="kw">pls_obj</span> <span class="kw">=</span> <span class="no">mmspls</span>, <span class="kw">comp</span> <span class="kw">=</span> <span class="fu"><a href="https://rdrr.io/r/base/c.html">c</a></span>(<span class="fl">1</span>, <span class="fl">2</span>))
 <span class="co">#&gt; </span>
 <span class="co">#&gt; </span>
 <span class="co">#&gt; |            | met_promoter| met_cgi| met_genebody| met_DHS| met_CTCF| met_p300|</span>
 <span class="co">#&gt; |:-----------|------------:|-------:|------------:|-------:|--------:|--------:|</span>
 <span class="co">#&gt; |concordancy |         0.78|    0.75|         0.69|    0.49|     0.29|     0.24|</span></pre></body></html></div>
-<p><img src="index_files/figure-html/unnamed-chunk-30-1.png" width="672"></p>
+<p><img src="index_files/figure-html/unnamed-chunk-31-1.png" width="672"></p>
 <p>```</p>
 </div>
 <div class="footnotes">
